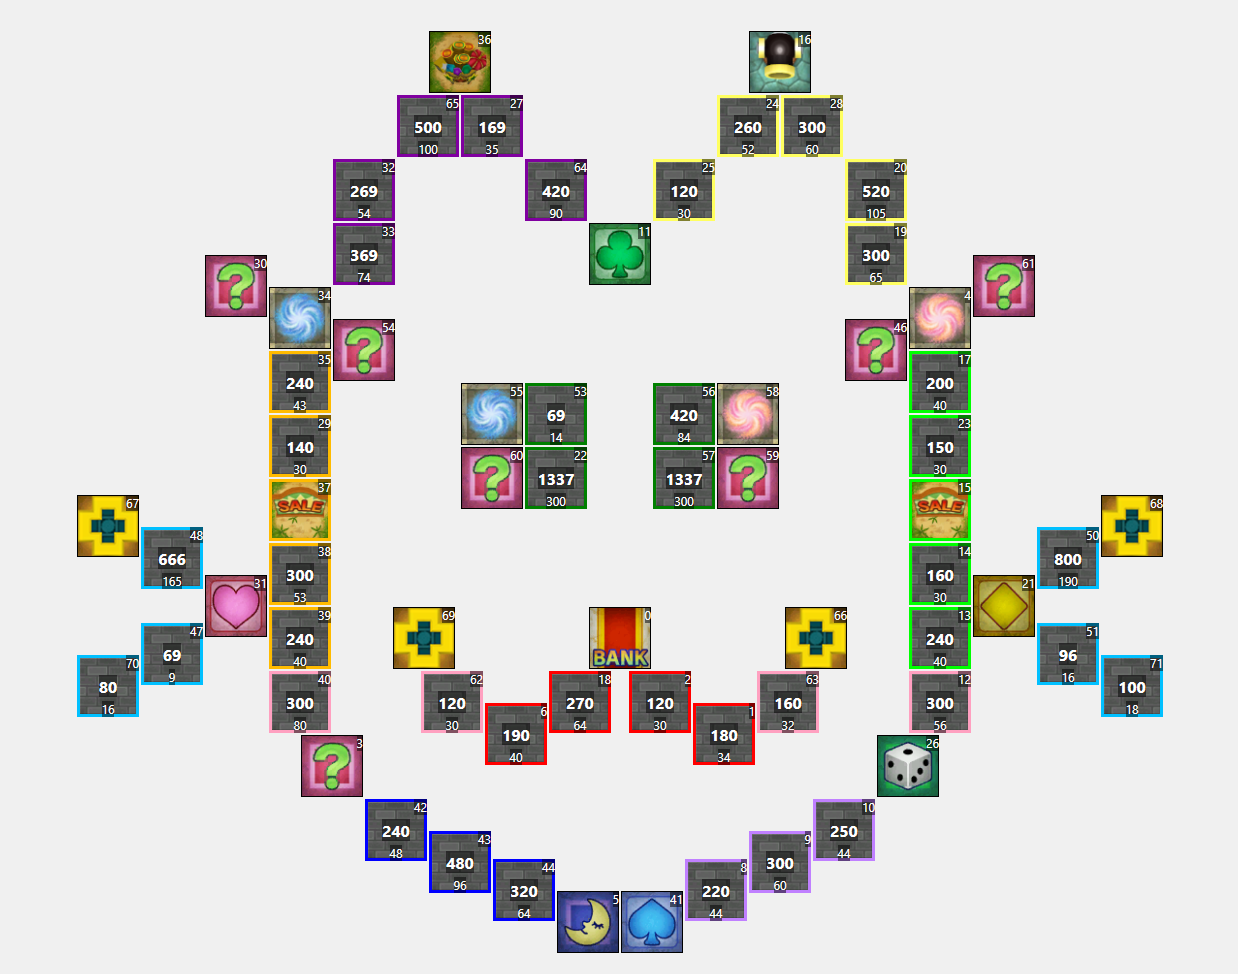
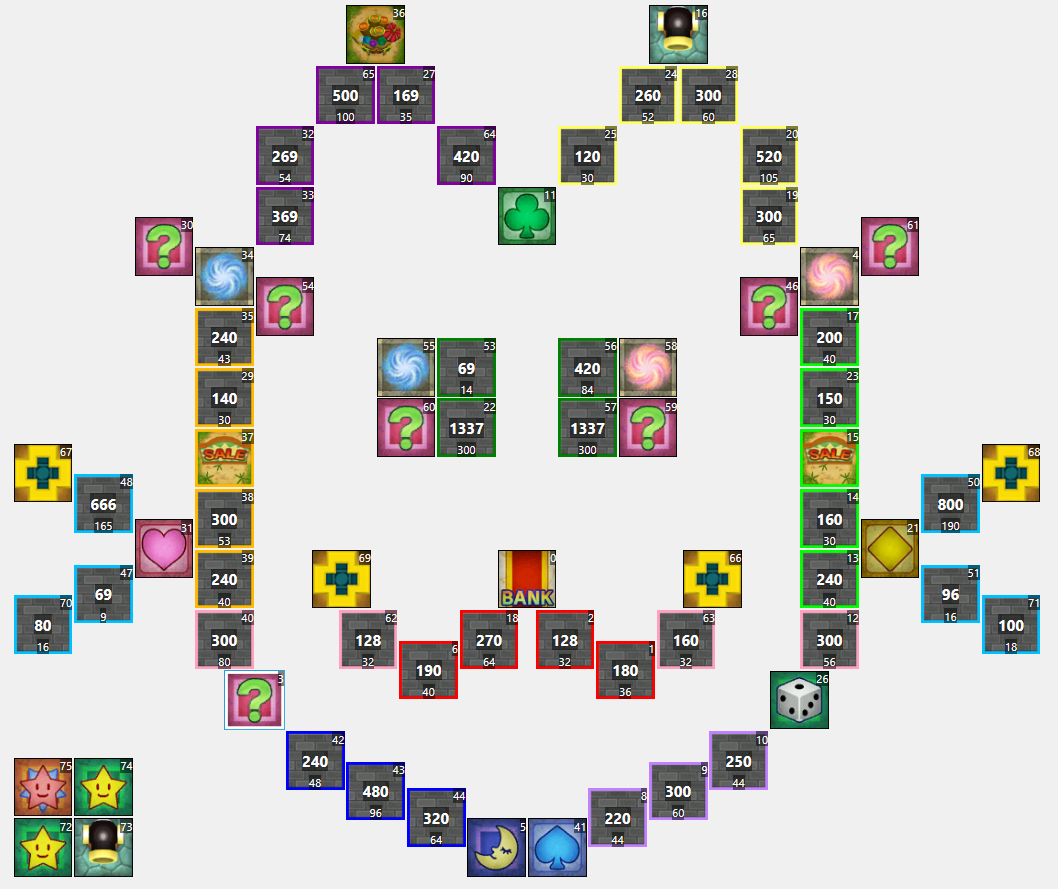
update cat map (still called cat map)

Changed region(s): [[0.0, 0.0, 0.9981, 1.0], [0.0, 0.8504, 0.1248, 1.0]]

diff --git a/CatMap/README.md b/CatMap/README.md
@@ -1,8 +1,11 @@
 # Cat Map
 
 I wanted to make a cute cat map.
+
 You can only reach the bottom whiskers with a balloon, but if you can make it, the cyan district becomes powerful.
-Beware getting stuck on the eyes!
+This map plays best with no vacant plots added.
+
+Beware getting stuck on the meme eyelands!
 
 ## Screenshots
 
@@ -22,8 +25,13 @@ Beware getting stuck on the eyes!
 ## Prerequisites
 
 - Needs to replace a map that supports cannons.
+- Should replace a dragon quest themed map to avoid graphical glitches when using the 2 way doors.
 
 ## Changelog
+
+### v2020.10.08
+- I have added BOON SQUARE ISLAND at the request of Deflaktor. Although venture card 125 is a very rare card to pick, it is unfortunately necessary to include a boon square somewhere on the map. Cat Map was already purrfect so I did not include a very lame and uninteresting boon square on the original design of Cat Map. (although if I were to do so, the obvious tile choice is the Venture square on the bottom left).
+- The addition of BOON SQUARE ISLAND changes gameplay in this way: 1) The cat now has a ball to play with. 2) in the late game, players may choose to warp here on purpose to temporarily escape high priced shops.
 
 ### v2017.05.31
 - 2017 is the last time I worked on this. It may still benefit from some balancing changes, but overall a great map that has been thoroughly tested with friends. :-)
